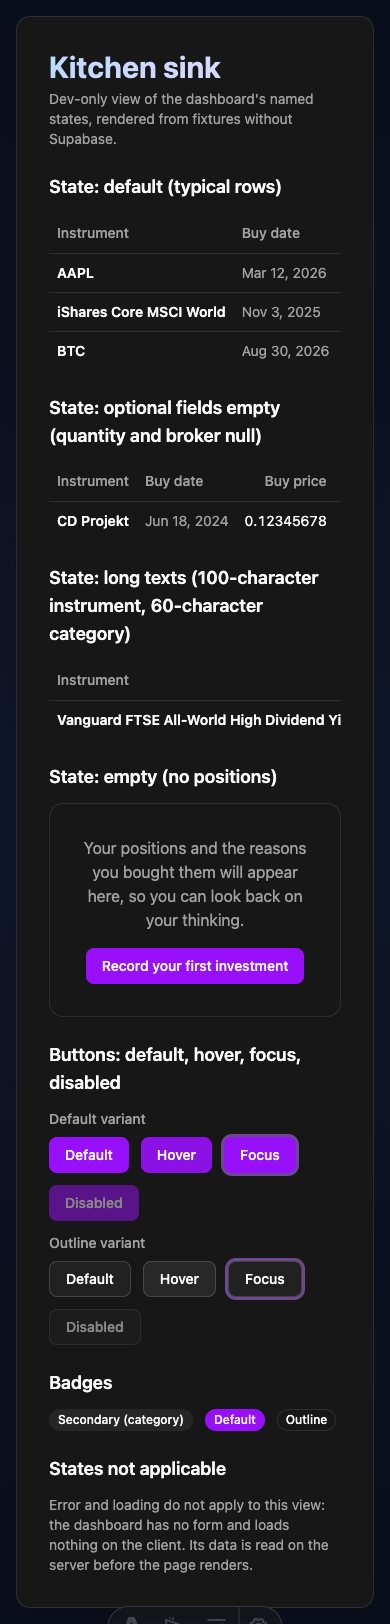
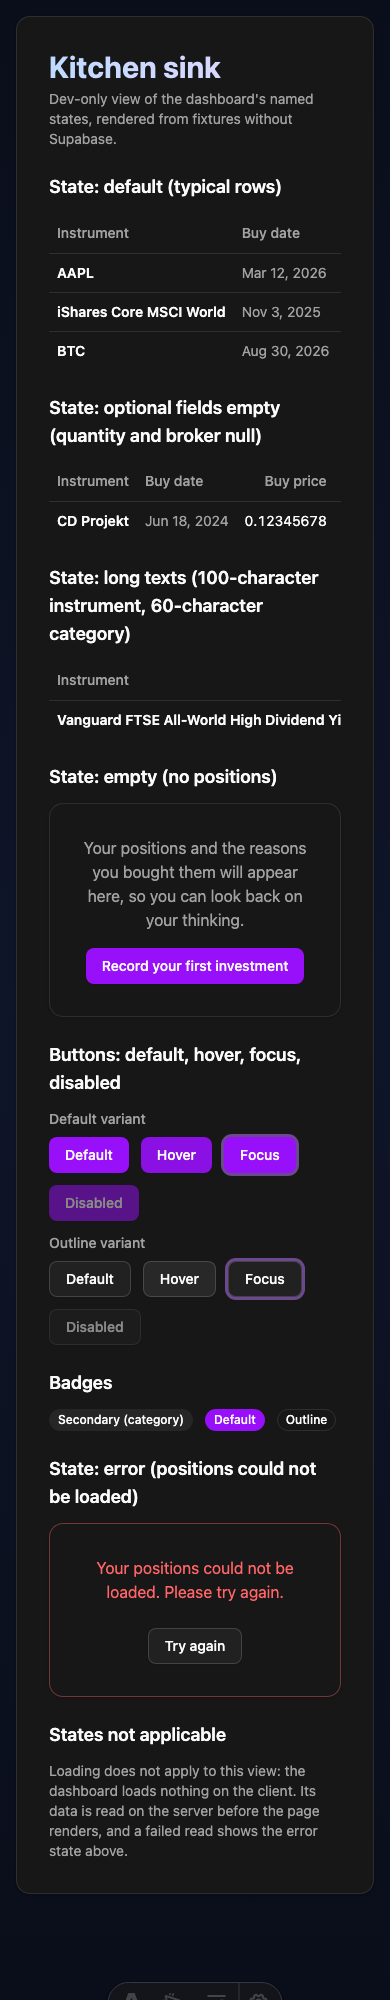
fix(ui-tokens-onboarding): dashboard error state and review fixes (p3)
Impl-review (phases 2-3) findings F1-F5 and Phase 3 manual sign-off.
- src/pages/dashboard.astro: catch listPositions, render error state
- src/components/positions/PositionsErrorState.astro (new)
- src/pages/dev/kitchen-sink.astro: error section, corrected copy
- screens/kitchen-sink-{desktop,390}.png re-taken
- plan.md: 3.5-3.9 checked, F1 grep note
- charges.md: error state evidence, max_rows deferred
- reviews/impl-review.md, change.md

Changed region(s): [[0.1231, 0.0308, 0.8308, 0.4926], [0.1231, 0.5234, 0.8308, 1.0]]

diff --git a/context/changes/ui-tokens-onboarding/reviews/impl-review.md b/context/changes/ui-tokens-onboarding/reviews/impl-review.md
@@ -1,0 +1,83 @@
+<!-- IMPL-REVIEW-REPORT -->
+# Implementation Review: Dashboard na tokenach (ui-tokens-onboarding)
+
+- **Plan**: context/changes/ui-tokens-onboarding/plan.md
+- **Scope**: Phases 2, 3 of 3 (Phase 1 covered by reviews/impl-review-phase-1.md; Phase 3 included at user request while its manual rows are pending)
+- **Reviewed phases**: 2, 3
+- **Date**: 2026-10-15
+- **Verdict**: NEEDS ATTENTION
+- **Findings**: 0 critical, 2 warnings, 3 observations
+
+## Verdicts
+
+| Dimension | Verdict |
+|-----------|---------|
+| Plan Adherence | PASS |
+| Scope Discipline | WARNING |
+| Safety & Quality | WARNING |
+| Architecture | PASS |
+| Pattern Consistency | PASS |
+| Success Criteria | WARNING |
+
+Automated: `npx astro sync && npm run lint` PASS, `npx astro check` 0 errors, `npm run build` PASS. Palette grep (with /usr/bin/grep): only `bg-cosmic` at dashboard.astro:17 and kitchen-sink.astro:39 (approved Q4). DEV guard at kitchen-sink.astro:16. Production `/dev/kitchen-sink` → 404.
+
+## Findings
+
+### F1 — Palette-grep criteria 2.2 / 3.4 can't pass as written
+
+- **Severity**: ⚠ WARNING
+- **Impact**: 🏃 LOW — quick decision; fix is obvious and narrowly scoped
+- **Dimension**: Success Criteria
+- **Location**: context/changes/ui-tokens-onboarding/plan.md:250 (and Phase 3 criterion 4)
+- **Detail**: Under the Claude Code shell, `grep` is ugrep, which rejects `(white|black)(/|\b)` and exits 2 with empty stdout, which reads as "returns nothing". With /usr/bin/grep the pattern matches the Q4-approved `bg-cosmic`, so the criterion can never return nothing. Both rows are ticked [x]. The code is clean; the check is wrong.
+- **Fix**: Add a note under the Progress rows (Phase blocks stay read-only) recording the run with /usr/bin/grep, bg-cosmic excluded per Q4, and the only matches.
+- **Decision**: FIXED — evidence note added under ## Progress in plan.md (Phase blocks untouched)
+
+### F2 — Dashboard has no error state; kitchen sink says it doesn't apply
+
+- **Severity**: ⚠ WARNING
+- **Impact**: 🔎 MEDIUM — real tradeoff; pause to reason through it
+- **Dimension**: Safety & Quality
+- **Location**: src/pages/dashboard.astro:13, src/pages/dev/kitchen-sink.astro:100-106
+- **Detail**: `listPositions` throws on a Supabase error (positions.ts:50). dashboard.astro:13 doesn't catch it and there is no 500.astro, so the author gets Astro's generic 500 with no sign-out link. dashboard/new.astro:58-64 already catches a failed read. Predates the change (Phase 2 kept data fetching unchanged), but the kitchen sink declares error "not applicable", so the change's state inventory is wrong.
+- **Fix A ⭐ Recommended**: Catch the error in dashboard.astro, render an error message inside the Card (copy like new.astro's), and add an "error" section to the kitchen sink.
+  - Strength: Completes the change's own goal of covering every named state; reuses new.astro's pattern.
+  - Tradeoff: About 10 lines in a phase that said "data fetching unchanged"; 3.8 needs a new screenshot.
+  - Confidence: HIGH — pattern already in repo, one call site.
+  - Blind spot: Error copy is a product decision; would reuse new.astro's wording.
+- **Fix B**: Correct the kitchen-sink copy and record "error state" as deferred in charges.md for S-02.
+  - Strength: No code change; strict scope.
+  - Tradeoff: Production keeps the bare 500 until S-02.
+  - Confidence: HIGH.
+  - Blind spot: S-02 has no date.
+- **Decision**: FIXED via Fix A — dashboard.astro catches listPositions and renders new PositionsErrorState.astro (token classes, Try again link); kitchen sink gains an error section and corrected copy; kitchen-sink screenshots re-taken (1280px, 390px)
+
+### F3 — The positions list is cut off silently at max_rows
+
+- **Severity**: OBSERVATION
+- **Impact**: 🏃 LOW — quick decision; fix is obvious and narrowly scoped
+- **Dimension**: Safety & Quality
+- **Location**: src/lib/services/positions.ts:44-49
+- **Detail**: No `.range()` or limit; PostgREST caps at max_rows (1000 locally, supabase/config.toml:18), so a longer list is cut off silently. Predates the change; unrealistic soon for a single-user diary.
+- **Fix**: Add to charges.md → Deferred ("list > max_rows, pagination").
+- **Decision**: FIXED — added to charges.md → Deferred
+
+### F4 — Phase 3 manual checks 3.5–3.9 not yet confirmed
+
+- **Severity**: OBSERVATION
+- **Impact**: 🏃 LOW — quick decision; fix is obvious and narrowly scoped
+- **Dimension**: Success Criteria
+- **Location**: plan.md ## Progress, Phase 3 Manual
+- **Detail**: Evidence exists for all: prod `/dev/kitchen-sink` → 404; screenshots 1280/390px (sips) linked in charges.md; checklist and Deferred sections filled. Awaiting human confirmation. 3.8 depends on F2 (Fix A needs a new screenshot).
+- **Fix**: Confirm 3.5–3.9, then tick them and add the commit ID.
+- **Decision**: FIXED — manual checks 3.5–3.9 confirmed by the author 2026-10-15 (3.5 checked on production, not a preview)
+
+### F5 — Small cosmetic additions not described in the plan
+
+- **Severity**: OBSERVATION
+- **Impact**: 🏃 LOW — quick decision; fix is obvious and narrowly scoped
+- **Dimension**: Scope Discipline
+- **Location**: PositionsTable.astro:23, dashboard.astro:18, kitchen-sink.astro:43-45, :95-96
+- **Detail**: `hover:bg-transparent` on the header row, `min-w-0` on the Card, kitchen-sink intro paragraph and extra Badge variants; empty-state Card nested in the dashboard Card. Intent unchanged.
+- **Fix**: No action needed; acknowledge.
+- **Decision**: ACCEPTED — cosmetic, intent unchanged

diff --git a/context/changes/ui-tokens-onboarding/charges.md b/context/changes/ui-tokens-onboarding/charges.md
@@ -23,7 +23,7 @@ manual check 1.8 confirmed looks the same as before the change).
 | ------ | -------------------------------------------------------------------------------------------------------------------------------------------------------------------------------------------------------------------------------------------------------------------------------------------------------------------------------------------- |
 | 1      | [dashboard-before.png](screens/dashboard-before.png) vs [dashboard-after.png](screens/dashboard-after.png): CTA purple from `--primary`, heading from `text-gradient-heading`, secondary text at a single `text-muted-foreground` level.                                                                                                     |
 | 2      | [dashboard-after.png](screens/dashboard-after.png): the page background is `bg-cosmic`, now token-backed (`--cosmic-*`, decision Q4), so it renders the same as before.                                                                                                                                                                      |
-| 3      | [kitchen-sink-desktop.png](screens/kitchen-sink-desktop.png): `Table*`, `Badge`, `Card` and `buttonVariants` in every named state (typical rows, null fields, long texts, empty).                                                                                                                                                            |
+| 3      | [kitchen-sink-desktop.png](screens/kitchen-sink-desktop.png): `Table*`, `Badge`, `Card` and `buttonVariants` in every named state (typical rows, null fields, long texts, empty, error — added after impl-review F2).                                                                                                                                                            |
 | 4      | [dashboard-after.png](screens/dashboard-after.png): Card and table read `.dark` token values (`bg-card`, `border-border`, `text-muted-foreground`).                                                                                                                                                                                          |
 | 5      | [kitchen-sink-desktop.png](screens/kitchen-sink-desktop.png) and [kitchen-sink-390.png](screens/kitchen-sink-390.png): the Focus button in both variants shows the purple `ring-ring/50` ring; Disabled is dimmed. At 390px the page has no horizontal overflow (`scrollWidth == clientWidth`); long rows scroll inside the table container. |
 
@@ -65,6 +65,10 @@ translucent `bg-white/10` with `backdrop-blur`; the category pill is the neutral
 - **Input/Label/Textarea/Select/Alert primitives.** Reason: the dashboard does not need them. They
   arrive with forms or S-02.
 - **`--success`/`--positive` token.** Reason: decision Q6. It lands in S-02 with result display.
+- **Positions list beyond `max_rows`.** `listPositions` (`src/lib/services/positions.ts:44-49`) has no
+  `.range()`, so PostgREST silently cuts the list at `max_rows` (1000 locally, `supabase/config.toml:18`).
+  Reason: predates this change and is unrealistic soon for one author; add pagination or a
+  "showing first N" notice when the list grows (impl-review F3).
 
 ## Dead code (decision Q7)
 

diff --git a/context/changes/ui-tokens-onboarding/plan.md b/context/changes/ui-tokens-onboarding/plan.md
@@ -411,8 +411,10 @@ wartości neutral.
 
 #### Manual
 
-- [ ] 3.5 Vercel preview: `/dev/kitchen-sink` zwraca 404
-- [ ] 3.6 Wszystkie sekcje stanów podpisane; długie teksty nie rozpychają 390px
-- [ ] 3.7 Focus i disabled odróżnialne od default
-- [ ] 3.8 Screenshoty w `screens/` podpięte w `charges.md`
-- [ ] 3.9 `ui-quality-checklist` przejrzana; luki zapisane jako odroczone
+- [x] 3.5 Vercel preview: `/dev/kitchen-sink` zwraca 404
+- [x] 3.6 Wszystkie sekcje stanów podpisane; długie teksty nie rozpychają 390px
+- [x] 3.7 Focus i disabled odróżnialne od default
+- [x] 3.8 Screenshoty w `screens/` podpięte w `charges.md`
+- [x] 3.9 `ui-quality-checklist` przejrzana; luki zapisane jako odroczone
+
+> **Review note (2026-10-15, impl-review F1):** criteria 2.2 and 3.4 as written cannot return nothing. Under the Claude Code shell `grep` is ugrep, which rejects `(/|\b)` and exits 2 with empty output; with `/usr/bin/grep` the pattern matches the Q4-approved `bg-cosmic`. Re-run with `/usr/bin/grep`: the only matches are `bg-cosmic` at `dashboard.astro:17` and `kitchen-sink.astro:39`. No palette, `white/*`, `black/*` or hex classes.

diff --git a/context/changes/ui-tokens-onboarding/change.md b/context/changes/ui-tokens-onboarding/change.md
@@ -3,7 +3,7 @@ change_id: ui-tokens-onboarding
 title: Ui tokens onboarding
 status: impl_reviewed
 created: 2026-10-07
-updated: 2026-10-14
+updated: 2026-10-15
 archived_at: null
 ---
 
